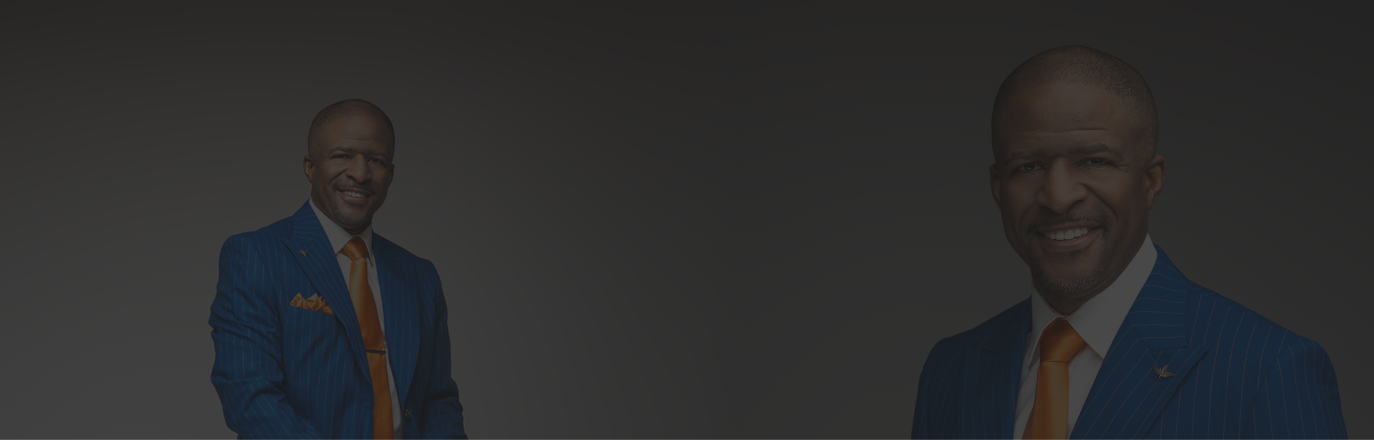
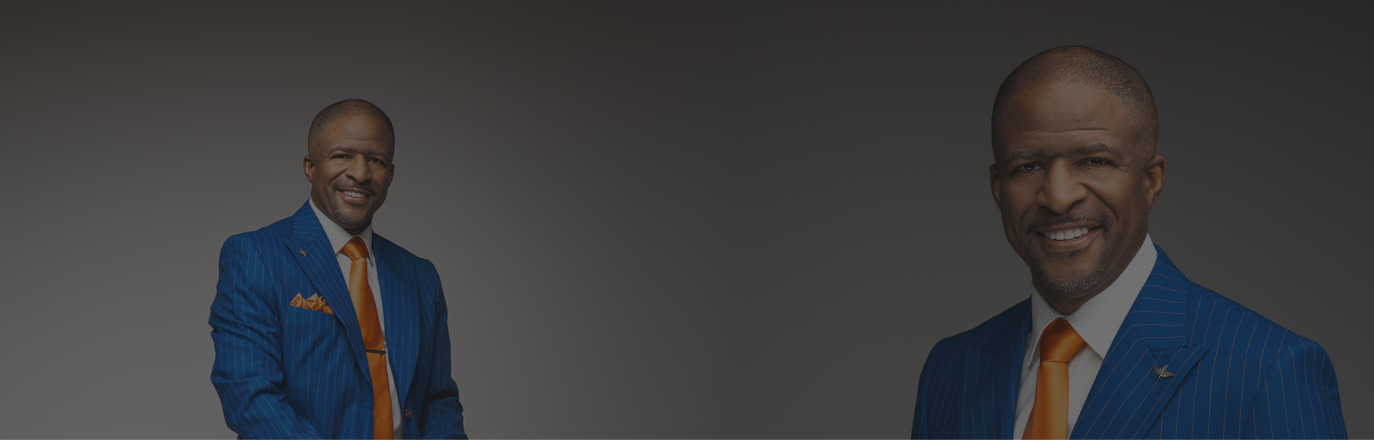
4-2-25

Changed region(s): [[0.0, 0.2364, 0.4279, 1.0], [0.7336, 0.3545, 0.9782, 1.0], [0.7336, 0.1477, 0.8253, 0.3545]]

diff --git a/academy.html b/academy.html
@@ -119,7 +119,7 @@
              <li>Amazon: Mastering place with seamless distribution channels.</li>
              <li>Tesla: Innovation-driven product strategies.</li>
             </ul>
-            <a href="https://www.skool.com/millionaire-marketer-academy-4897" class="register-btn">explore more academy</a>
+            <a href="https://www.skool.com/millionaire-marketer-academy-4897" class="register-btn">Explore more about Academy <i class="fa-solid fa-angle-right"></i></a>
          </div>
 
      </section>

diff --git a/ebook.html b/ebook.html
@@ -17,7 +17,7 @@
     />
   </head>
   <body>
-    <section class="upper-section" style="height: 80vh; background-position:calc(100% - 58%); background-image: url(images/ebook-banner2.png);">
+    <section class="upper-section" style="height: 80vh; background-position:calc(100% - 58%); background-image: url(images/ebook-banner22.png);">
 
         <header class="header">
           <nav>

diff --git a/index.html b/index.html
@@ -144,7 +144,7 @@
 
     <section class="team-section">
       <div class="team-img1">
-        <img src="images/team-bg55.png" alt="">
+        <img src="images/team-bg5.png" alt="">
       </div>
       <div class="content-box">
         <h2>Meet The Team</h2>
